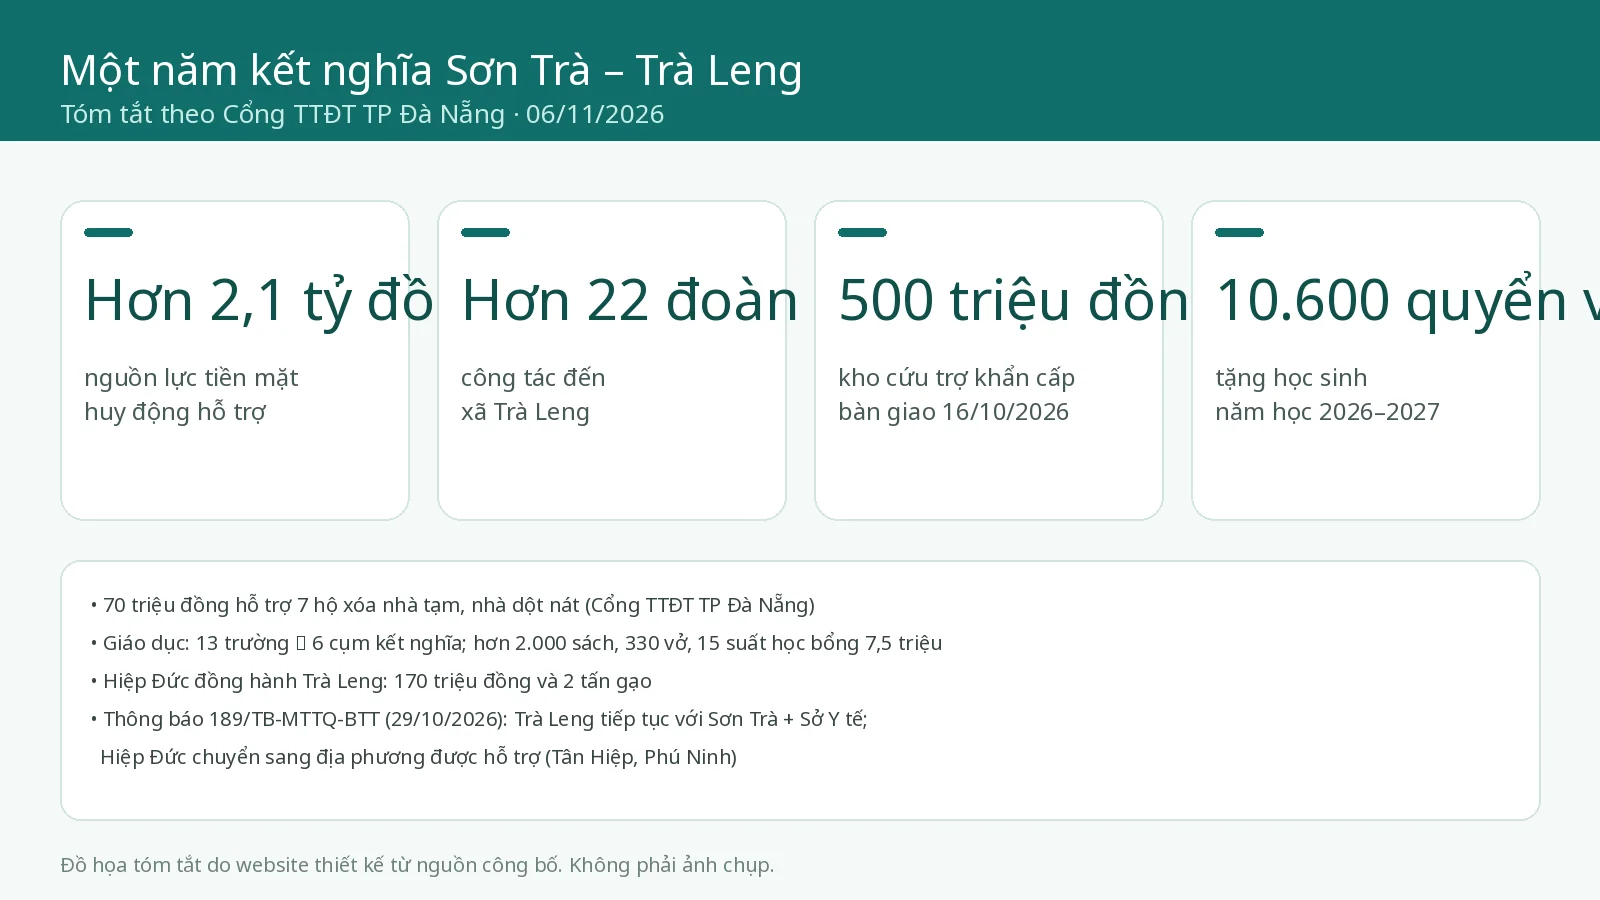
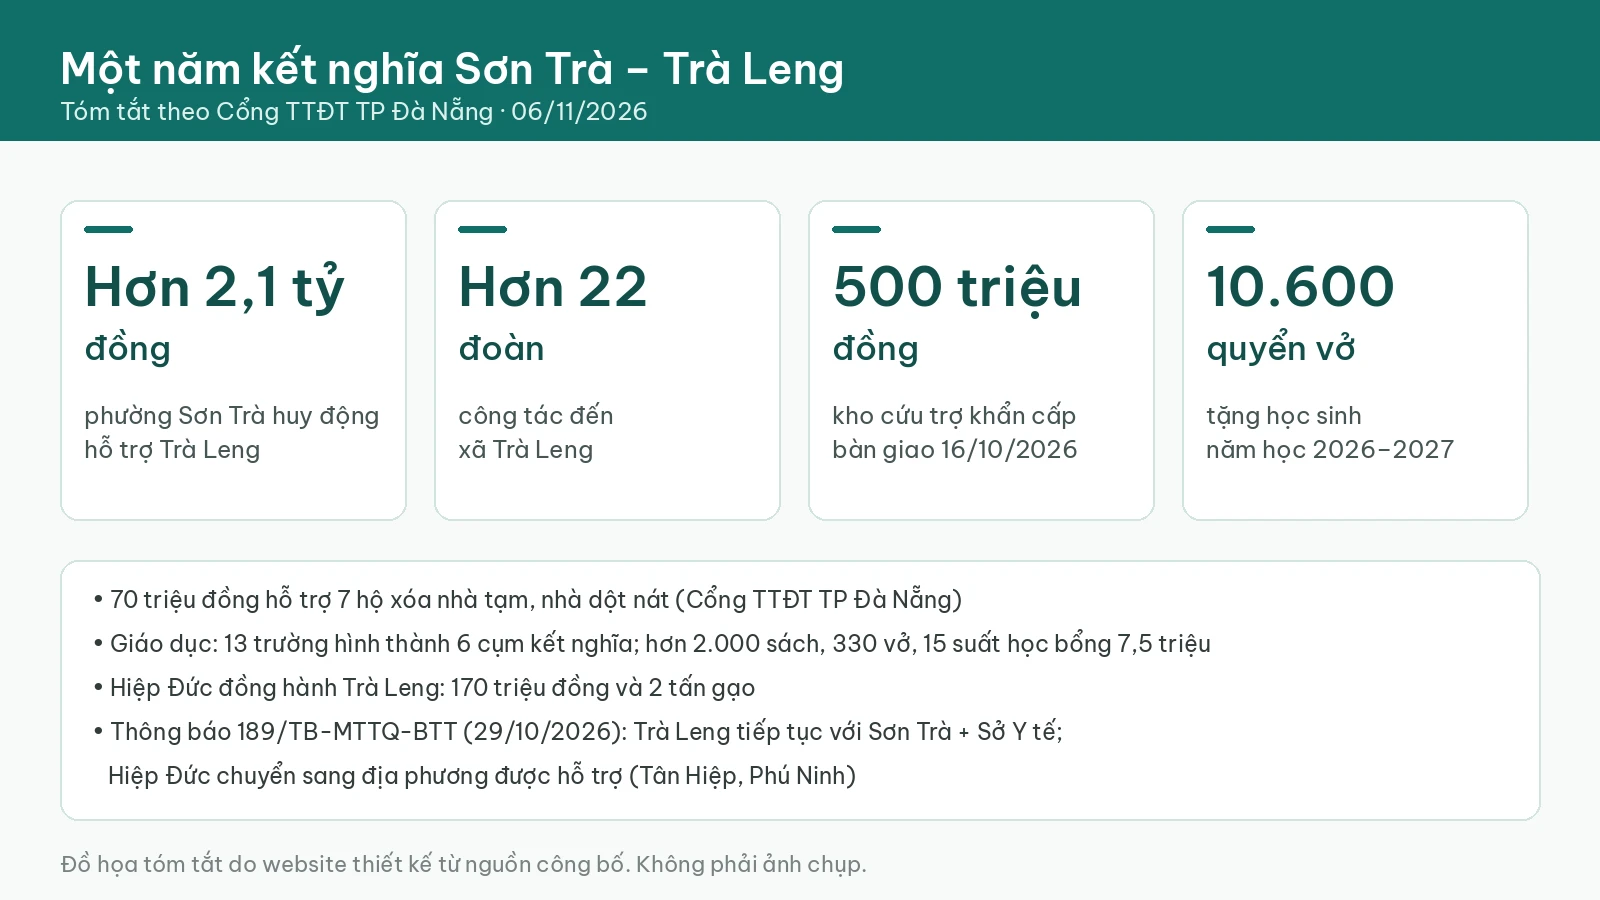
fix(news): PR #123 Luna changes — đồ họa tóm tắt không cắt chữ, watermark sạch + lề an toàn OG, làm rõ 2,1 tỷ của riêng phường Sơn Trà

diff --git a/src/data/project.ts b/src/data/project.ts
@@ -300,13 +300,13 @@ export const NEWS: NewsArticle[] = [
     date: "07.11.2026",
     title: "Phường Sơn Trà kết nghĩa Trà Leng: một năm hơn 2,1 tỷ và hướng đi mới",
     excerpt:
-      "Sáng 6/11/2026, phường Sơn Trà sơ kết một năm kết nghĩa với Trà Leng và Hiệp Đức: hơn 2,1 tỷ đồng nguồn lực, kho cứu trợ bàn giao 16/10, và phân công mới từ Thông báo 189.",
+      "Sáng 6/11/2026, phường Sơn Trà sơ kết một năm kết nghĩa với Trà Leng và Hiệp Đức: riêng phường Sơn Trà huy động hơn 2,1 tỷ đồng hỗ trợ Trà Leng, kho cứu trợ bàn giao 16/10, và phân công mới từ Thông báo 189.",
     description:
-      "Tin phường Sơn Trà 06/11/2026: hội nghị sơ kết một năm kết nghĩa với xã Trà Leng và xã Hiệp Đức — hơn 2,1 tỷ đồng, hơn 22 đoàn công tác, kho cứu trợ 500 triệu, giáo dục và phân công mới theo Thông báo 189/TB-MTTQ-BTT.",
+      "Tin phường Sơn Trà 06/11/2026: hội nghị sơ kết một năm kết nghĩa với xã Trà Leng và xã Hiệp Đức — riêng phường Sơn Trà huy động hơn 2,1 tỷ đồng hỗ trợ Trà Leng, hơn 22 đoàn công tác, kho cứu trợ 500 triệu, giáo dục và phân công mới theo Thông báo 189/TB-MTTQ-BTT.",
     image: "/images/news-son-tra-ket-nghia-0711-og.jpg",
     imageAlt:
       "Ảnh minh họa tạo bằng AI: nhà sinh hoạt cộng đồng ven vịnh, phía xa núi Sơn Trà và mặt nước. Không phải ảnh chụp hội nghị và không phải The Camellia Sơn Trà.",
-    imageCaption: "Ảnh minh họa tạo bằng AI",
+    imageCaption: "Ảnh minh họa tạo bằng AI. Không phải địa điểm hội nghị hay công trình được chương trình hỗ trợ.",
     poster: "/images/news-son-tra-ket-nghia-0711-hero.webp",
     imageObjectClass: "object-top",
     gallery: [
